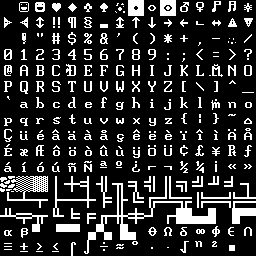
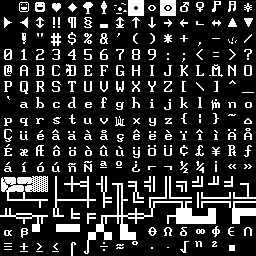
Fixed out of fov render bug

diff --git a/engine.py b/engine.py
@@ -4,7 +4,7 @@ import json
 from map_objects.game_map import GameMap
 from components.inventory import Inventory
 from entity import Entity
-from renderer import RenderOrder, render_all, erase_all, erase_entity
+from renderer import RenderOrder, render_all, erase_entities
 from game_states import GameStates
 from input_handler import handle_event
 from spawner import Spawner, Factions
@@ -24,19 +24,18 @@ def main():
     fov_light_walls=data['fov_light_walls']
     fov_radius=data['fov_radius']
     # Init root console
-    tcod.console_set_custom_font('gfx/fonts/terminal16x16_gs_ro.png', tcod.FONT_TYPE_GREYSCALE | tcod.tcod.FONT_LAYOUT_CP437)
-    root_console=tcod.console_init_root(terminal_width, terminal_height, 'Python: Yuwanda\'s Awakening', False, tcod.RENDERER_SDL2, 'C', False)
-    display=tcod.console.Console(terminal_width, terminal_height, 'C')
+    tcod.console_set_custom_font('gfx/fonts/terminal16x16_gs_ro_style.png', tcod.FONT_TYPE_GREYSCALE | tcod.tcod.FONT_LAYOUT_CP437)
+    console_root=tcod.console_init_root(terminal_width, terminal_height, 'Python: Yuwanda\'s Awakening', False, tcod.RENDERER_SDL2, 'C', False)
+    console_display=tcod.console.Console(terminal_width, terminal_height, 'C')
     with open('gfx/colours/palette.json') as colours:
         palette=json.load(colours)
-    display.bg[:]=palette['terminal_green']
+    console_display.bg[:]=palette['terminal_green']
     #interface=tcod.console.Console(terminal_width, map_height, 'C')
     game_map=GameMap(map_width, map_height)
     spawner=Spawner(map_width, map_height, 0, game_map.path_map)
             # Testing creatures
-    spawner.spawn_actor(0, 0, 'player', Factions.ALLY)
-    player=spawner.entities[0]
     generate_test_area(game_map, spawner)
+    player=spawner.entities[0]
     # Then generate map
     fov_recompute=True
     # message log
@@ -45,7 +44,7 @@ def main():
     #targeting_item=None
     # Rendering for the first time
     game_map.recompute_fov(player.x, player.y, fov_radius, fov_light_walls, fov_algorithm)
-    render_all(root_console, display, spawner.entities, player, game_map, fov_recompute, terminal_width, terminal_height, game_state)
+    render_all(console_root, console_display, spawner.entities, game_map, fov_recompute)
     fov_recompute=False
     tcod.console_flush()
     # Game loop
@@ -53,10 +52,10 @@ def main():
         # Render
         if fov_recompute:
             game_map.recompute_fov(player.x, player.y, fov_radius, fov_light_walls, fov_algorithm)
-        render_all(root_console, display, spawner.entities, player, game_map, fov_recompute, terminal_width, terminal_height, game_state)
+        render_all(console_root, console_display, spawner.entities, game_map, fov_recompute)
         fov_recompute=False
         tcod.console_flush()
-        erase_all(display, spawner.entities)
+        erase_entities(console_display, spawner.entities, game_map)
         # Processing action
         action=handle_event(game_state)
         move=action.get('move')
@@ -122,7 +121,7 @@ def main():
         if game_state==GameStates.TURN_ALLY:
             for entity in spawner.entities:
                 if entity.faction==Factions.ALLY and entity!=player:
-                    results_ally=entity.ai.take_turn()
+                    results_ally=entity.ai.take_turn(spawner, game_map.path_map)
             game_state=GameStates.TURN_ENEMY
         
         if game_state==GameStates.TURN_ENEMY:

diff --git a/renderer.py b/renderer.py
@@ -9,25 +9,26 @@ class RenderOrder(Enum):
     ENVIRONMENT=3   # explosion smoke, particles
     ACTOR=4
 
-def render_all(root_console, display, entities, player, game_map, fov_recompute, terminal_width, terminal_height, game_state):
+def render_all(console_root, console_display, entities, game_map, fov_recompute):
     # [y, x] arrays remember
     if fov_recompute:
         for y in range(game_map.height):
             for x in range(game_map.width):
                 if game_map.path_map.fov[y, x]:
-                    display.tiles[["ch", "fg"]][y, x]=ord(game_map.graphics[y, x].char), (*game_map.graphics[y, x].colour_lit, 255)
+                    console_display.tiles[["ch", "fg"]][y, x]=ord(game_map.graphics[y, x].char), (*game_map.graphics[y, x].colour_lit, 255)
                     game_map.explored[y, x]=True
                 elif game_map.explored[y, x]:
-                    display.tiles[["ch", "fg"]][y, x]=ord(game_map.graphics[y, x].char), (*game_map.graphics[y, x].colour_dim, 255)
+                    console_display.tiles[["ch", "fg"]][y, x]=ord(game_map.graphics[y, x].char), (*game_map.graphics[y, x].colour_dim, 255)
     render_ordered_entities=sorted(entities, key=lambda x: x.render_order.value)
     for entity in render_ordered_entities:
         if game_map.path_map.fov[entity.y, entity.x]:
-            display.tiles[["ch", "fg"]][entity.y, entity.x]=ord(entity.char), (*entity.colour, 255)
-    display.blit(root_console, 0, 0, 0, 0, terminal_width, terminal_height)
+            console_display.tiles[["ch", "fg"]][entity.y, entity.x]=ord(entity.char), (*entity.colour, 255)
+    console_display.blit(console_root, 0, 0, 0, 0, game_map.width, game_map.height)
 
-def erase_all(display, entities):
+def erase_entities(console_display, entities, game_map):
     for entity in entities:
-        display.tiles[["ch"]][entity.y, entity.x]=ord(' ')
+        if game_map.path_map.fov[entity.y, entity.x]:
+            console_display.tiles[["ch", "fg"]][entity.y, entity.x]=ord(game_map.graphics[entity.y, entity.x].char), (*game_map.graphics[entity.y, entity.x].colour_lit, 255)
 
-def erase_entity(display, entity):
-    display.tiles[["ch"]][entity.y, entity.x]=ord(' ')
+#def erase_entity(display, entity):
+ #   display.tiles[["ch"]][entity.y, entity.x]=ord(' ')

diff --git a/ai.py b/ai.py
@@ -1,3 +1,6 @@
+from random import randint
+#pylint: disable=no-member
+
 # Basic factory
 def get_ai(string):
     if string=='guard':         return Guard()          # only enemy
@@ -9,13 +12,26 @@ def get_ai(string):
     return None
 
 class Neutral:
-    def take_turn(self):
+    def take_turn(self, block_map, path_map):
         print('s')
 
 class NeutralAggro:
-    def take_turn(self):
+    def take_turn(self, block_map, path_map):
         print('r')
 
 class Guard:
-    def take_turn(self):
-        print(' ')
+    def take_turn(self, spawner, path_map):
+        results=[]
+        dx=randint(-1, 1)
+        dy=randint(-1, 1)
+        # RESULTS EXTEND
+        response=spawner.check_collision(self.owner.x+dx, self.owner.y+dy)
+        target=response.get('collide')
+        if target:
+            if target.faction==self.owner.faction:
+                print('Geddout my way binch! Cursed thee {0}!'.format(target.name))
+            else:
+                print('KILL')   #RESULTS EXTEND
+        elif (not response.get('blocked')) and (not response.get('outofbounds')):
+            self.owner.move(dx, dy, spawner.block_map)
+        return results

diff --git a/map_objects/generator.py b/map_objects/generator.py
@@ -12,6 +12,6 @@ def generate_test_area(game_map, spawner):
     game_map.fill_rect(Rectangle(5, game_map.height-8, 1, 1), 'ground_dirt')
     game_map.fill_rect(Rectangle(4, game_map.height-7, 3, 3), 'ground_grass')
     y_dest=game_map.cave_x(13, 0, game_map.width-30, 'wall_dirt', 15, 15, 1, 1, 2)
-    
+    spawner.spawn_actor(0, 0, 'player', Factions.ALLY)
     spawner.spawn_actor(2, 2, 'snek_test', Factions.ALLY)
     spawner.spawn_actor(2, 0, 'focker_test', Factions.ALLY)
